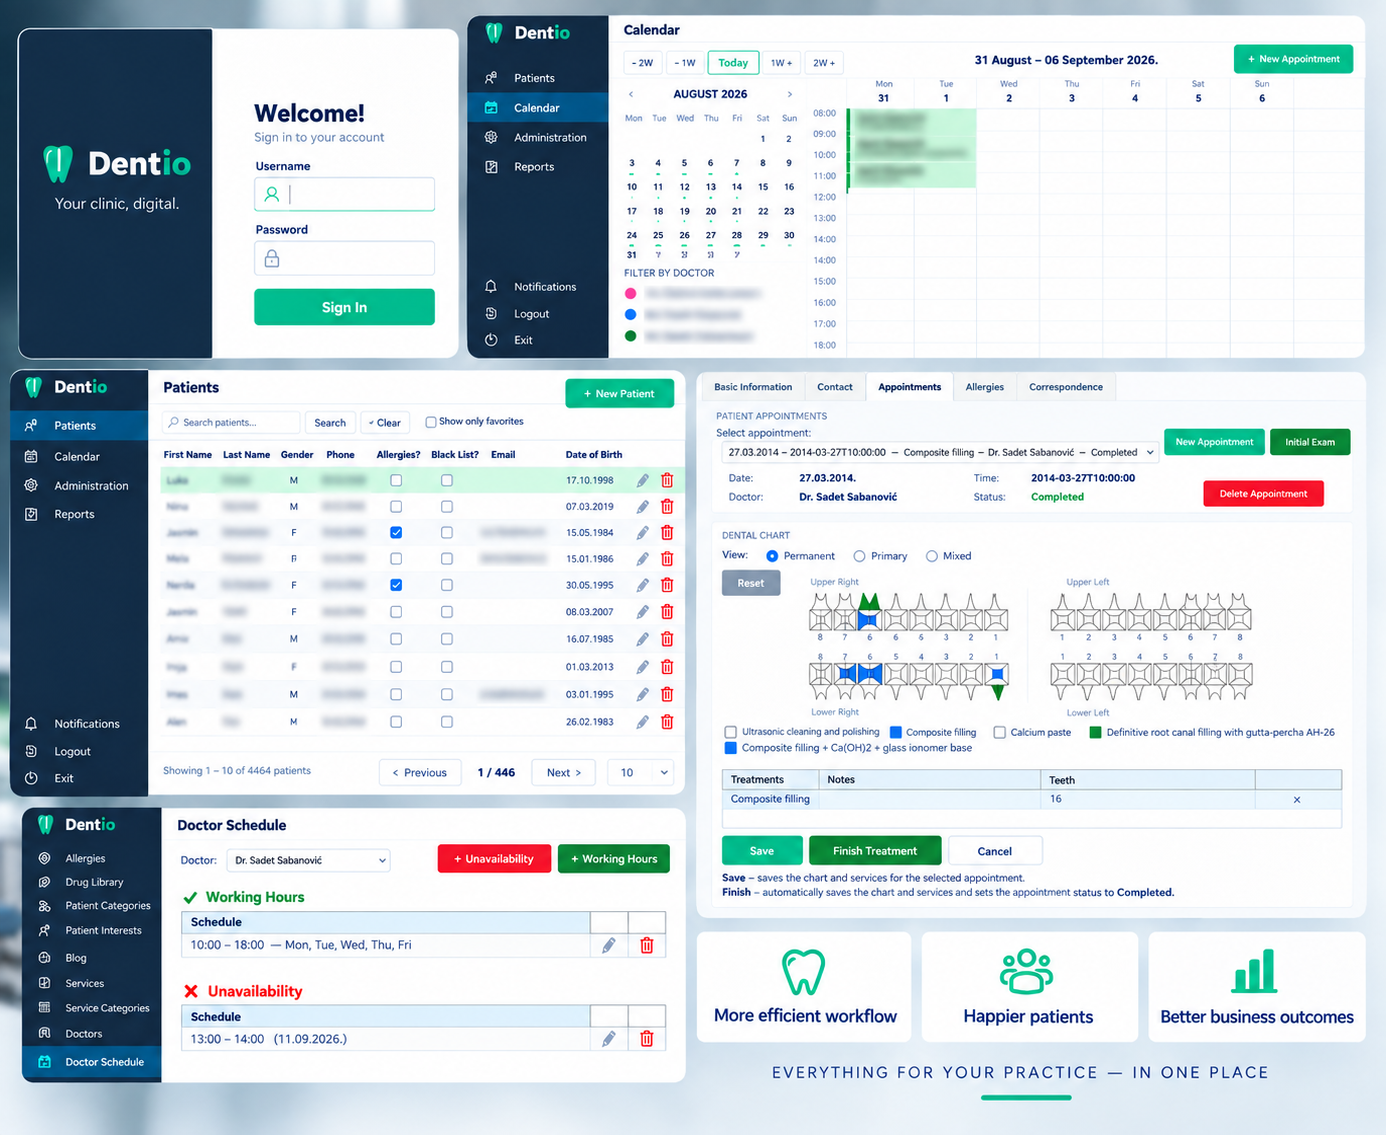
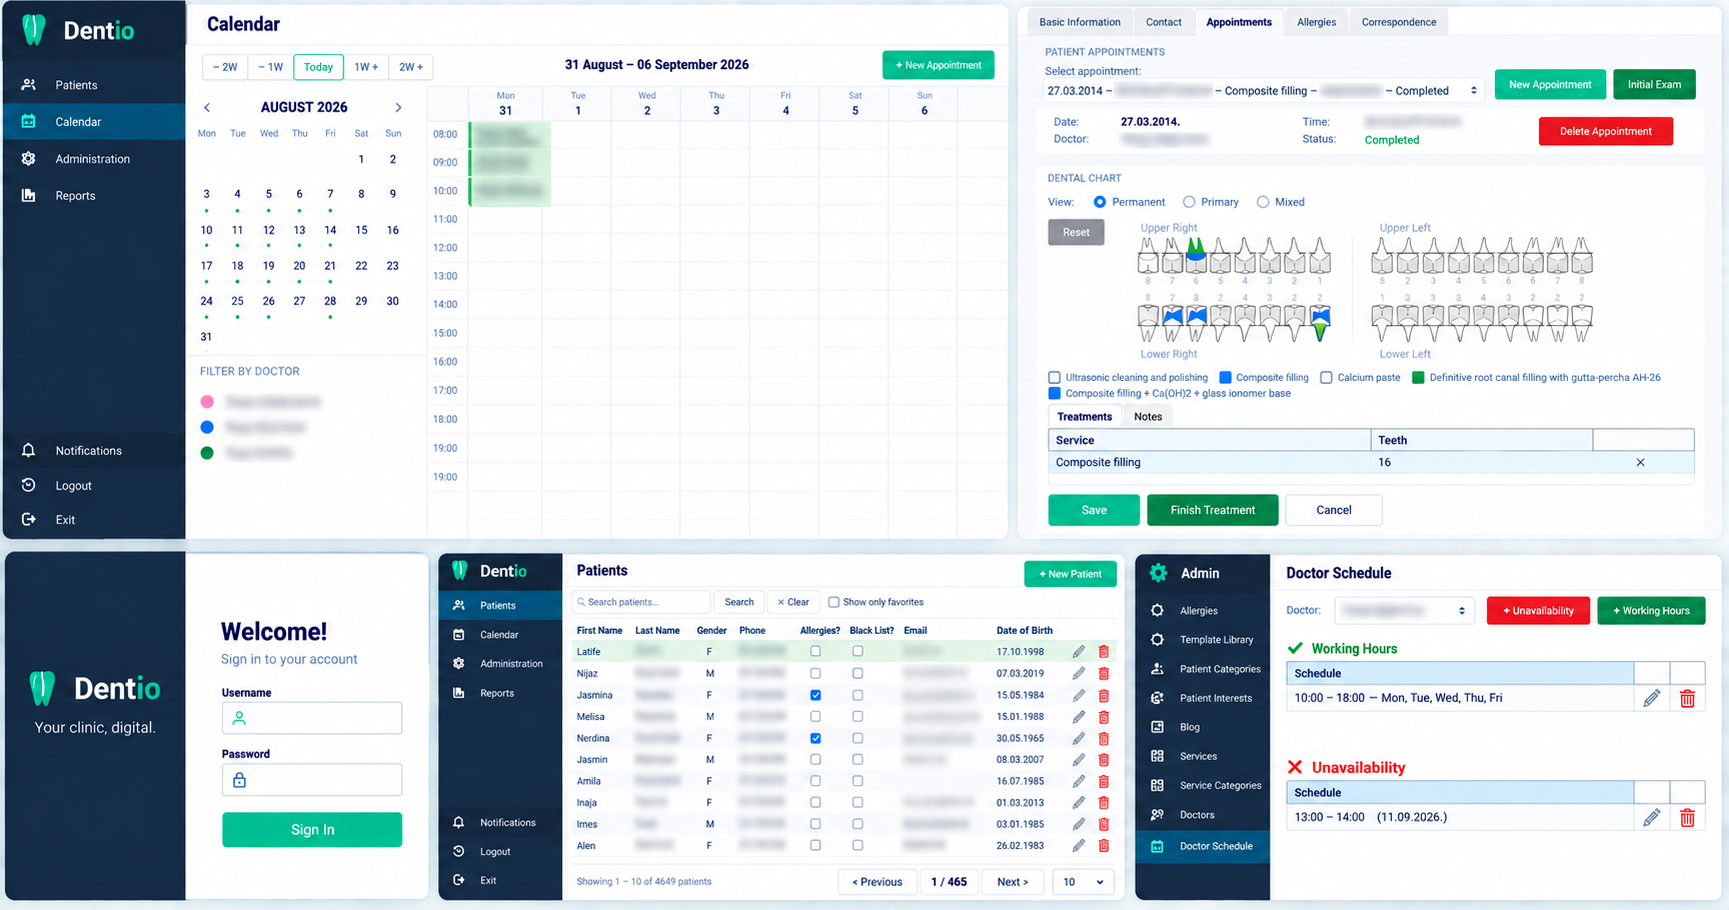
added animated stats counters and integrated EmailJS for contact form

diff --git a/src/app/components/stats/stats.component.ts b/src/app/components/stats/stats.component.ts
@@ -1,4 +1,5 @@
-import { Component, inject } from '@angular/core';
+import { Component, inject, signal, AfterViewInit, OnDestroy, NgZone, ElementRef, PLATFORM_ID } from '@angular/core';
+import { isPlatformBrowser } from '@angular/common';
 import { TranslateService } from '../../services/translate.service';
 
 @Component({
@@ -8,14 +9,70 @@ import { TranslateService } from '../../services/translate.service';
   templateUrl: './stats.component.html',
   styleUrl: './stats.component.scss'
 })
-export class StatsComponent {
+export class StatsComponent implements AfterViewInit, OnDestroy {
   ts = inject(TranslateService);
+  private zone = inject(NgZone);
+  private el = inject(ElementRef);
+  private platformId = inject(PLATFORM_ID);
+  private observer: IntersectionObserver | null = null;
+  private animated = false;
 
   stats = [
-{ value: '10,000+', key: 'patients' },
-    { value: '50,000+', key: 'appointments' },
-    { value: '60+', key: 'services' },
-    { value: '99.9%', key: 'uptime' },
-    { value: '24/7', key: 'sync' },
+    { target: 10000, suffix: '+', key: 'patients', duration: 2000 },
+    { target: 50000, suffix: '+', key: 'appointments', duration: 2200 },
+    { target: 60, suffix: '+', key: 'services', duration: 1800 },
+    { target: 99.9, suffix: '%', key: 'uptime', duration: 1800, decimal: true },
+    { target: 0, suffix: '', key: 'sync', duration: 0, static: '24/7' },
   ];
+
+  counters = this.stats.map(s => signal(s.static ?? '0'));
+
+  ngAfterViewInit() {
+    if (!isPlatformBrowser(this.platformId)) return;
+
+    this.zone.runOutsideAngular(() => {
+      this.observer = new IntersectionObserver(
+        (entries) => {
+          if (entries[0].isIntersecting && !this.animated) {
+            this.animated = true;
+            this.startCounters();
+            this.observer?.disconnect();
+          }
+        },
+        { threshold: 0.3 }
+      );
+      this.observer.observe(this.el.nativeElement);
+    });
+  }
+
+  private startCounters() {
+    this.stats.forEach((s, i) => {
+      if (s.static) return;
+      this.animateCounter(0, s.target, s.duration, this.counters[i], s.suffix, s.decimal);
+    });
+  }
+
+  private animateCounter(
+    from: number, to: number, duration: number,
+    target: ReturnType<typeof signal<string>>,
+    suffix: string, decimal = false
+  ) {
+    const start = performance.now();
+    const step = (now: number) => {
+      const elapsed = now - start;
+      const progress = Math.min(elapsed / duration, 1);
+      const eased = 1 - Math.pow(1 - progress, 3);
+      const current = from + (to - from) * eased;
+      const display = decimal
+        ? current.toFixed(1)
+        : Math.round(current).toLocaleString();
+      target.set(display + suffix);
+      if (progress < 1) requestAnimationFrame(step);
+    };
+    requestAnimationFrame(step);
+  }
+
+  ngOnDestroy() {
+    this.observer?.disconnect();
+  }
 }

diff --git a/src/app/components/contact/contact.component.ts b/src/app/components/contact/contact.component.ts
@@ -1,6 +1,7 @@
 import { Component, inject } from '@angular/core';
 import { TranslateService } from '../../services/translate.service';
 import { FormsModule } from '@angular/forms';
+import emailjs from '@emailjs/browser';
 
 @Component({
   selector: 'app-contact',
@@ -24,6 +25,8 @@ export class ContactComponent {
   formSubmitted = false;
   gdprAccepted = false;
   showPrivacy = false;
+  sending = false;
+  sendError = false;
 
   get phoneValid(): boolean {
     return /^[0-9+\s\-]{6,15}$/.test(this.form.phone);
@@ -45,10 +48,32 @@ export class ContactComponent {
     if (!this.phoneValid || !this.emailValid) return;
     if (!this.gdprAccepted) return;
 
-    this.submitted = true;
-    setTimeout(() => this.submitted = false, 3000);
-    this.form = { firstName: '', lastName: '', phone: '', email: '', message: '' };
-    this.formSubmitted = false;
-    this.gdprAccepted = false;
+    this.sending = true;
+    this.sendError = false;
+
+    const templateParams = {
+      from_name: `${this.form.firstName} ${this.form.lastName}`,
+      first_name: this.form.firstName,
+      last_name: this.form.lastName,
+      phone: this.form.phone,
+      email: this.form.email,
+      message: this.form.message || '—',
+      time: new Date().toLocaleString('bs-BA'),
+    };
+
+    emailjs.send('service_hf6qos8', 'template_9d6cjme', templateParams, '-HIJqeDRMV-4K-cUr')
+      .then(() => {
+        this.sending = false;
+        this.submitted = true;
+        setTimeout(() => this.submitted = false, 3000);
+        this.form = { firstName: '', lastName: '', phone: '', email: '', message: '' };
+        this.formSubmitted = false;
+        this.gdprAccepted = false;
+      })
+      .catch(() => {
+        this.sending = false;
+        this.sendError = true;
+        setTimeout(() => this.sendError = false, 4000);
+      });
   }
 }

diff --git a/src/app/components/contact/contact.component.html b/src/app/components/contact/contact.component.html
@@ -94,9 +94,18 @@
             @if (formSubmitted && !gdprAccepted) {
               <span class="field-error gdpr-error">{{ ts.t('contact.gdprError') }}</span>
             }
-            <button type="submit" class="btn-primary btn-full" [disabled]="!gdprAccepted">
-              {{ ts.t('contact.send') }}
-              <svg width="20" height="20" viewBox="0 0 24 24" fill="none" stroke="currentColor" stroke-width="2"><line x1="22" y1="2" x2="11" y2="13"/><polygon points="22 2 15 22 11 13 2 9 22 2"/></svg>
+            @if (sendError) {
+              <div class="error-message">
+                {{ ts.lang() === 'bs' ? 'Greška pri slanju. Pokušajte ponovo.' : 'Failed to send. Please try again.' }}
+              </div>
+            }
+            <button type="submit" class="btn-primary btn-full" [disabled]="!gdprAccepted || sending">
+              @if (sending) {
+                {{ ts.lang() === 'bs' ? 'Slanje...' : 'Sending...' }}
+              } @else {
+                {{ ts.t('contact.send') }}
+                <svg width="20" height="20" viewBox="0 0 24 24" fill="none" stroke="currentColor" stroke-width="2"><line x1="22" y1="2" x2="11" y2="13"/><polygon points="22 2 15 22 11 13 2 9 22 2"/></svg>
+              }
             </button>
           </form>
         }

diff --git a/src/app/components/stats/stats.component.html b/src/app/components/stats/stats.component.html
@@ -2,9 +2,9 @@
   <div class="container">
     <h2 class="stats-title">Dent<span class="green">io</span> {{ ts.t('stats.title') }}</h2>
     <div class="stats-grid">
-      @for (s of stats; track s.key) {
+      @for (s of stats; track s.key; let i = $index) {
         <div class="stat-card">
-          <div class="stat-value">{{ s.value }}</div>
+          <div class="stat-value">{{ counters[i]() }}</div>
           <div class="stat-label">{{ ts.t('stats.' + s.key) }}</div>
         </div>
       }

diff --git a/src/app/components/contact/contact.component.scss b/src/app/components/contact/contact.component.scss
@@ -181,6 +181,17 @@
   font-weight: 500;
 }
 
+.error-message {
+  background: rgba(239, 68, 68, 0.08);
+  color: #ef4444;
+  padding: 10px 16px;
+  border-radius: 8px;
+  font-size: 13px;
+  font-weight: 500;
+  margin-bottom: 12px;
+  text-align: center;
+}
+
 .btn-full {
   width: 100%;
   justify-content: center;
